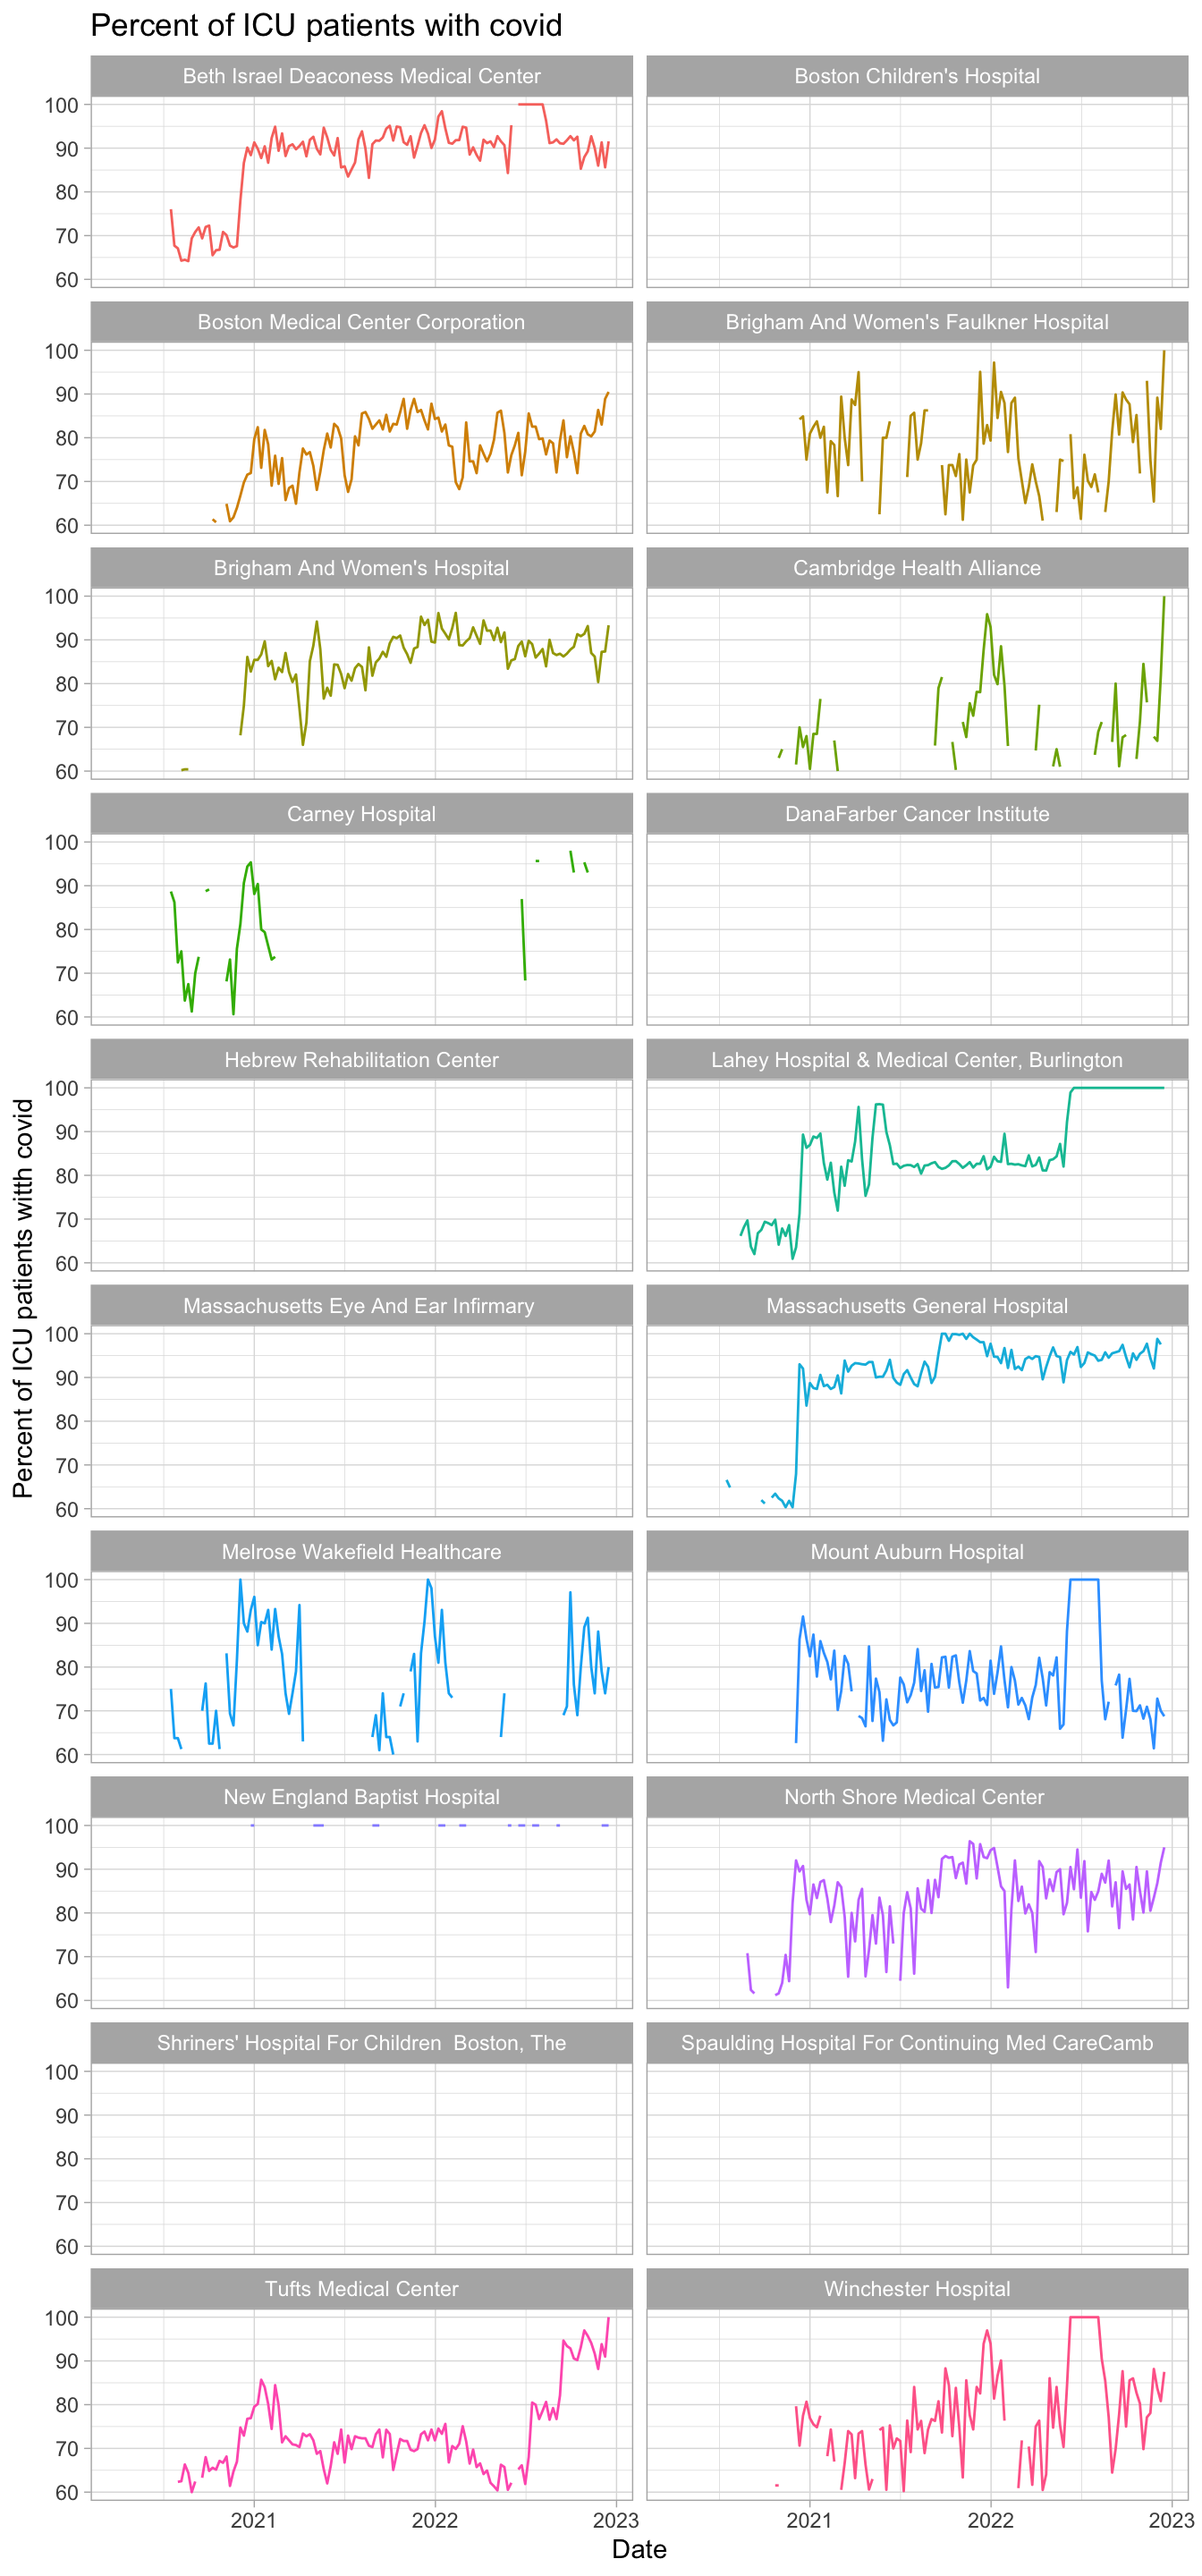
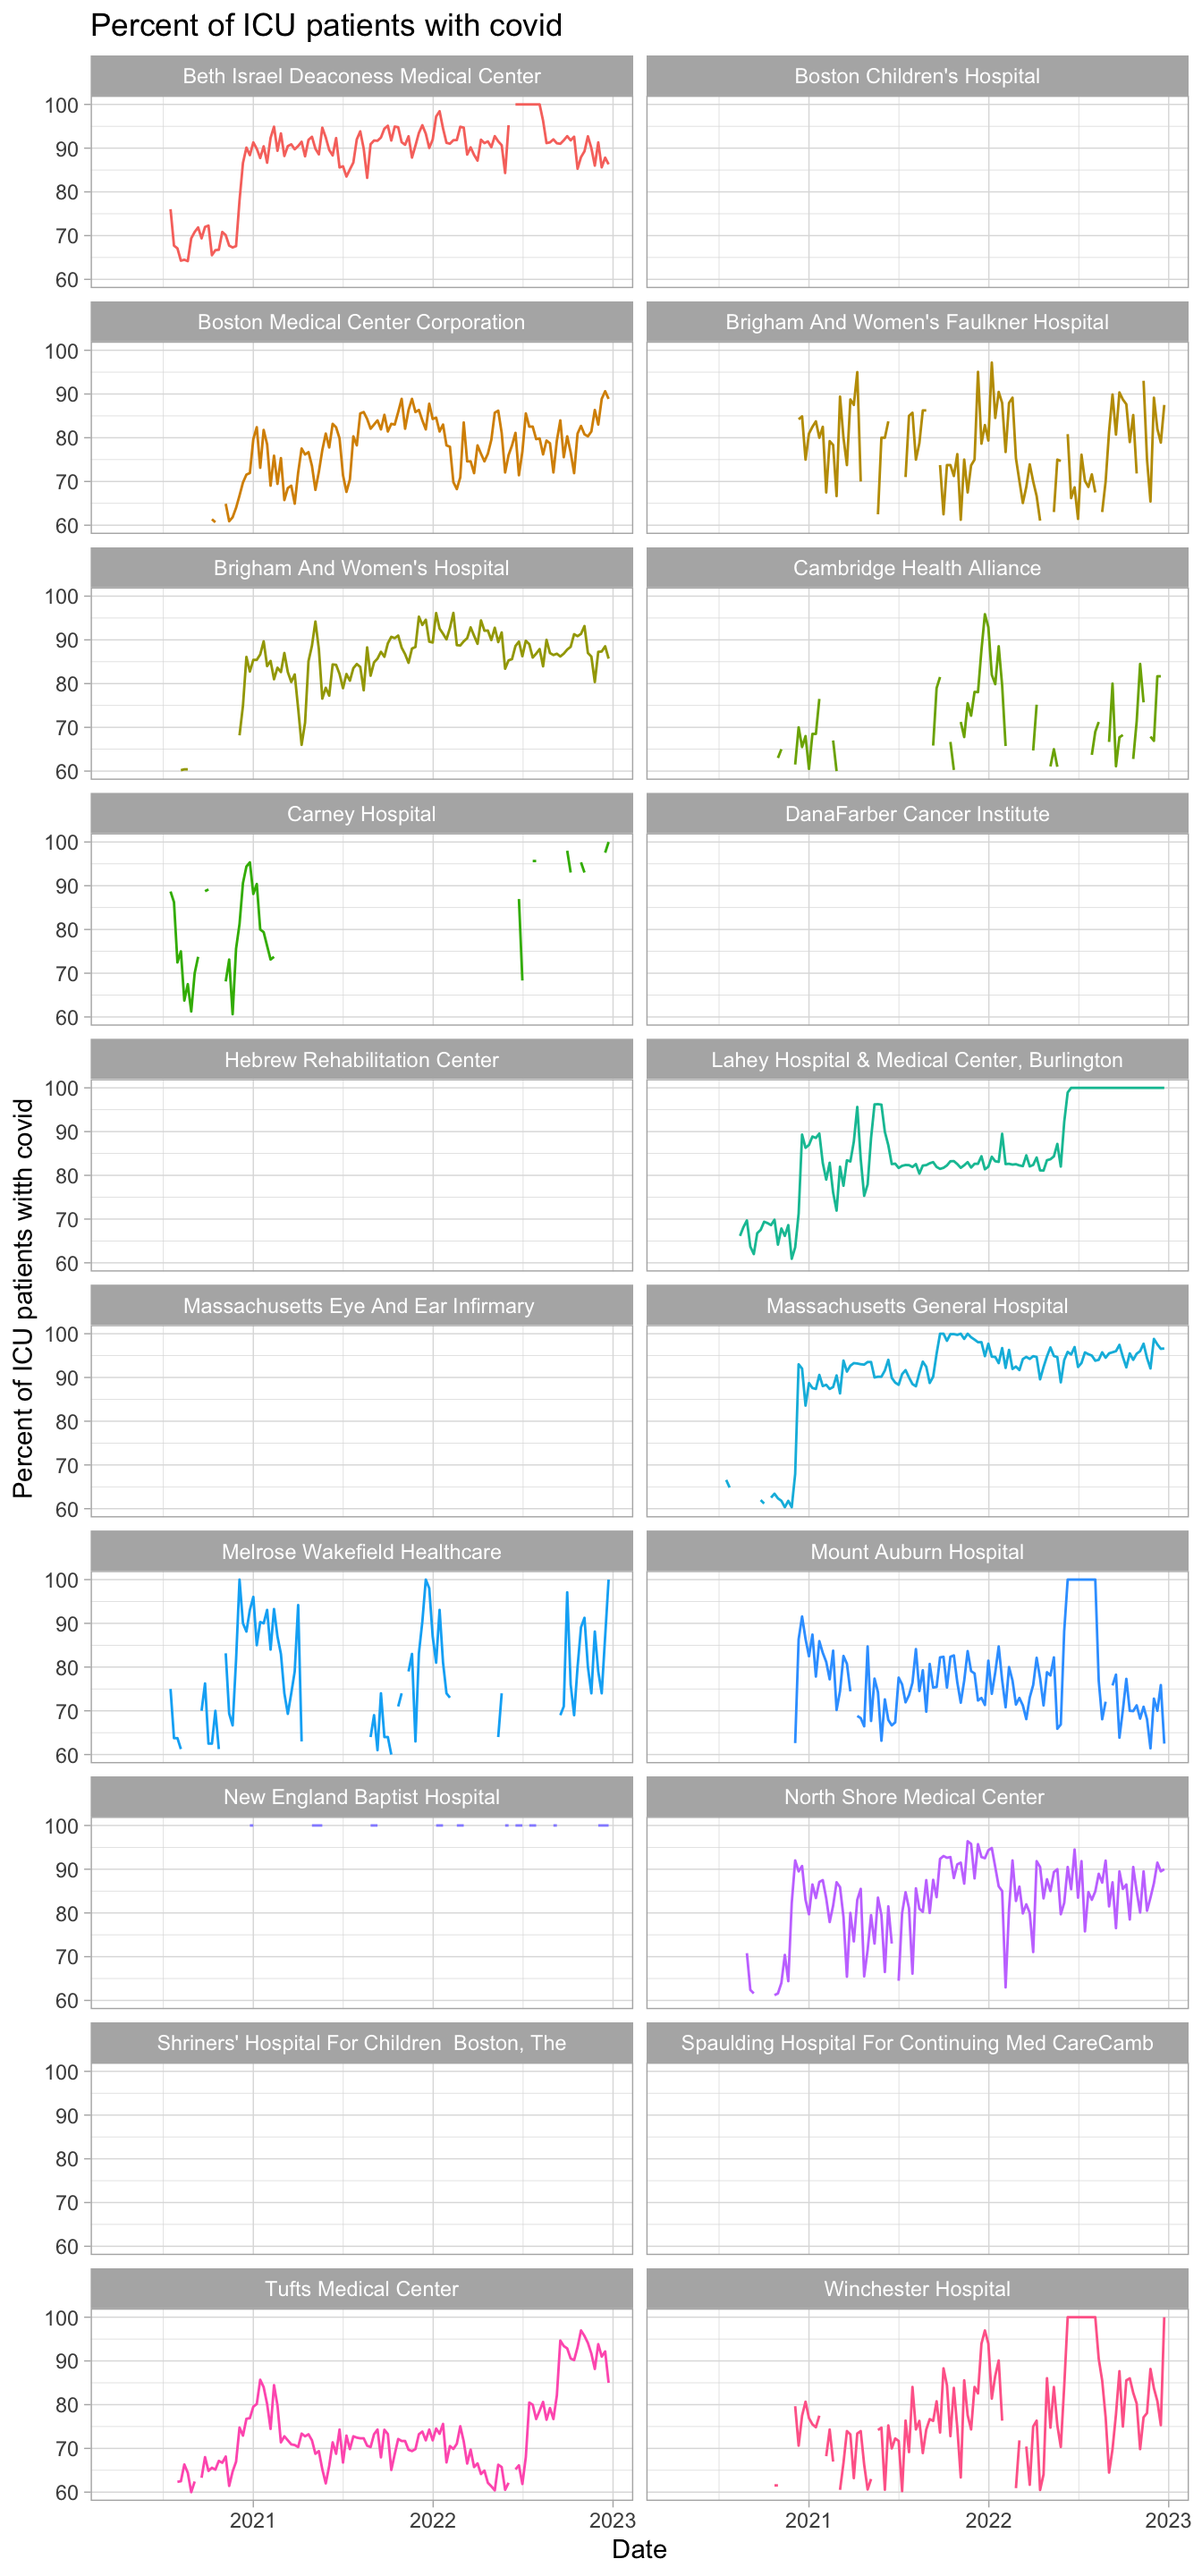
updated data

diff --git a/docs/index.html b/docs/index.html
@@ -13,7 +13,7 @@
 
 <title>Medford MA covid information</title>
 
-<script src="site_libs/header-attrs-2.18/header-attrs.js"></script>
+<script src="site_libs/header-attrs-2.19/header-attrs.js"></script>
 <script src="site_libs/jquery-3.6.0/jquery-3.6.0.min.js"></script>
 <meta name="viewport" content="width=device-width, initial-scale=1" />
 <link href="site_libs/bootstrap-3.3.5/css/bootstrap.min.css" rel="stylesheet" />
@@ -307,7 +307,7 @@ it could indicate that many other cases are being missed).</p>
 <p>The US Department of Health and Human Services gives data on hospital
 usage. Here are data of ICU bed availability for hospitals in this area
 with at least 25 staffed ICU beds, using data from the week starting
-2022-12-16.</p>
+2022-12-23.</p>
 <table>
 <colgroup>
 <col width="46%" />
@@ -326,51 +326,45 @@ with at least 25 staffed ICU beds, using data from the week starting
 <tbody>
 <tr class="odd">
 <td align="left">Beth Israel Deaconess Medical Center</td>
-<td align="right">6</td>
-<td align="right">126</td>
-<td align="right">95</td>
+<td align="right">10</td>
+<td align="right">121</td>
+<td align="right">92</td>
 </tr>
 <tr class="even">
 <td align="left">Boston Children’s Hospital</td>
-<td align="right">14</td>
+<td align="right">10</td>
 <td align="right">134</td>
-<td align="right">90</td>
+<td align="right">93</td>
 </tr>
 <tr class="odd">
 <td align="left">Boston Medical Center Corporation</td>
-<td align="right">12</td>
+<td align="right">9</td>
 <td align="right">88</td>
-<td align="right">86</td>
+<td align="right">90</td>
 </tr>
 <tr class="even">
 <td align="left">Brigham And Women’s Hospital</td>
-<td align="right">7</td>
+<td align="right">15</td>
 <td align="right">159</td>
-<td align="right">96</td>
+<td align="right">91</td>
 </tr>
 <tr class="odd">
 <td align="left">Lahey Hospital &amp; Medical Center, Burlington</td>
 <td align="right">0</td>
-<td align="right">44</td>
+<td align="right">42</td>
 <td align="right">100</td>
 </tr>
 <tr class="even">
 <td align="left">Massachusetts General Hospital</td>
-<td align="right">115</td>
-<td align="right">150</td>
-<td align="right">23</td>
+<td align="right">5</td>
+<td align="right">153</td>
+<td align="right">97</td>
 </tr>
 <tr class="odd">
-<td align="left">Mount Auburn Hospital</td>
-<td align="right">5</td>
-<td align="right">25</td>
-<td align="right">80</td>
-</tr>
-<tr class="even">
 <td align="left">Tufts Medical Center</td>
-<td align="right">14</td>
+<td align="right">25</td>
 <td align="right">102</td>
-<td align="right">86</td>
+<td align="right">75</td>
 </tr>
 </tbody>
 </table>
@@ -382,7 +376,7 @@ in the state:</p>
 <p>And those intubated:</p>
 <p><img src="index_files/figure-html/unnamed-chunk-7-1.png" width="672" /></p>
 <p>Plotting percentage of ICU patients with covid over time (up to the
-week starting 2022-12-16). Some hospitals have much more frequently
+week starting 2022-12-23). Some hospitals have much more frequently
 updated data than others; some is fairly gappy. This just plots the
 hospitals that average at least 25 staffed <em>adult</em> ICU beds per
 week.</p>

diff --git a/docs/individualhospitals.html b/docs/individualhospitals.html
@@ -13,7 +13,7 @@
 
 <title>Individual Hospitals</title>
 
-<script src="site_libs/header-attrs-2.18/header-attrs.js"></script>
+<script src="site_libs/header-attrs-2.19/header-attrs.js"></script>
 <script src="site_libs/jquery-3.6.0/jquery-3.6.0.min.js"></script>
 <meta name="viewport" content="width=device-width, initial-scale=1" />
 <link href="site_libs/bootstrap-3.3.5/css/bootstrap.min.css" rel="stylesheet" />
@@ -302,51 +302,45 @@ usage. Here are data for hospitals in this area.</p>
 <tbody>
 <tr class="odd">
 <td align="left">Beth Israel Deaconess Medical Center</td>
-<td align="right">6</td>
-<td align="right">126</td>
-<td align="right">95</td>
+<td align="right">10</td>
+<td align="right">121</td>
+<td align="right">92</td>
 </tr>
 <tr class="even">
 <td align="left">Boston Children’s Hospital</td>
-<td align="right">14</td>
+<td align="right">10</td>
 <td align="right">134</td>
-<td align="right">90</td>
+<td align="right">93</td>
 </tr>
 <tr class="odd">
 <td align="left">Boston Medical Center Corporation</td>
-<td align="right">12</td>
+<td align="right">9</td>
 <td align="right">88</td>
-<td align="right">86</td>
+<td align="right">90</td>
 </tr>
 <tr class="even">
 <td align="left">Brigham And Women’s Hospital</td>
-<td align="right">7</td>
+<td align="right">15</td>
 <td align="right">159</td>
-<td align="right">96</td>
+<td align="right">91</td>
 </tr>
 <tr class="odd">
 <td align="left">Lahey Hospital &amp; Medical Center, Burlington</td>
 <td align="right">0</td>
-<td align="right">44</td>
+<td align="right">42</td>
 <td align="right">100</td>
 </tr>
 <tr class="even">
 <td align="left">Massachusetts General Hospital</td>
-<td align="right">115</td>
-<td align="right">150</td>
-<td align="right">23</td>
+<td align="right">5</td>
+<td align="right">153</td>
+<td align="right">97</td>
 </tr>
 <tr class="odd">
-<td align="left">Mount Auburn Hospital</td>
-<td align="right">5</td>
-<td align="right">25</td>
-<td align="right">80</td>
-</tr>
-<tr class="even">
 <td align="left">Tufts Medical Center</td>
-<td align="right">14</td>
+<td align="right">25</td>
 <td align="right">102</td>
-<td align="right">86</td>
+<td align="right">75</td>
 </tr>
 </tbody>
 </table>

diff --git a/docs/links.html b/docs/links.html
@@ -13,7 +13,7 @@
 
 <title>Other useful links</title>
 
-<script src="site_libs/header-attrs-2.18/header-attrs.js"></script>
+<script src="site_libs/header-attrs-2.19/header-attrs.js"></script>
 <script src="site_libs/jquery-3.6.0/jquery-3.6.0.min.js"></script>
 <meta name="viewport" content="width=device-width, initial-scale=1" />
 <link href="site_libs/bootstrap-3.3.5/css/bootstrap.min.css" rel="stylesheet" />

diff --git a/docs/comparisons.html b/docs/comparisons.html
@@ -13,7 +13,7 @@
 
 <title>Comparisons</title>
 
-<script src="site_libs/header-attrs-2.18/header-attrs.js"></script>
+<script src="site_libs/header-attrs-2.19/header-attrs.js"></script>
 <script src="site_libs/jquery-3.6.0/jquery-3.6.0.min.js"></script>
 <meta name="viewport" content="width=device-width, initial-scale=1" />
 <link href="site_libs/bootstrap-3.3.5/css/bootstrap.min.css" rel="stylesheet" />

diff --git a/docs/about.html b/docs/about.html
@@ -13,7 +13,7 @@
 
 <title>About</title>
 
-<script src="site_libs/header-attrs-2.18/header-attrs.js"></script>
+<script src="site_libs/header-attrs-2.19/header-attrs.js"></script>
 <script src="site_libs/jquery-3.6.0/jquery-3.6.0.min.js"></script>
 <meta name="viewport" content="width=device-width, initial-scale=1" />
 <link href="site_libs/bootstrap-3.3.5/css/bootstrap.min.css" rel="stylesheet" />
